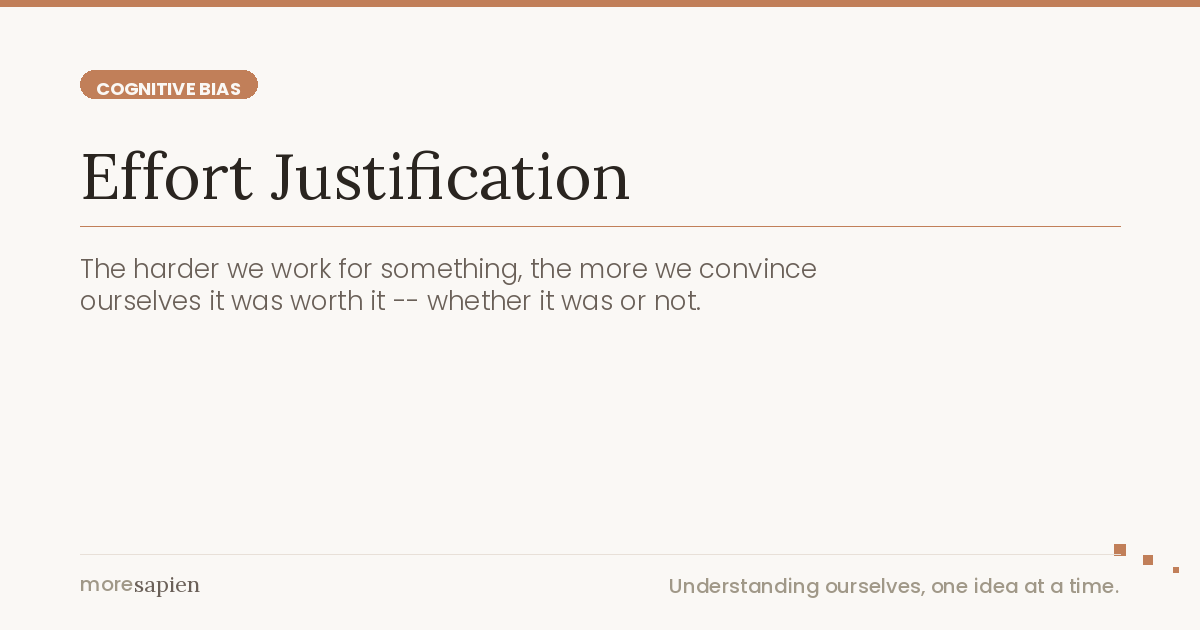
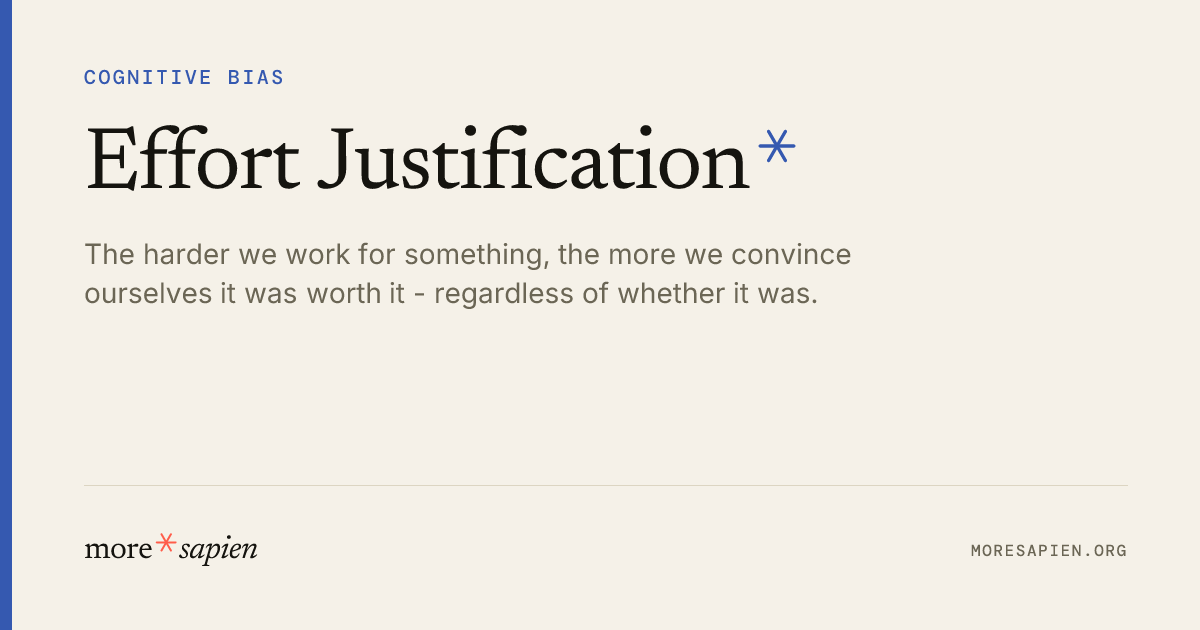
SEO fixes: effort justification entry, footer trailing slashes, sitemap lastmod

diff --git a/src/content/entries/effort-justification.md b/src/content/entries/effort-justification.md
@@ -1,0 +1,83 @@
+---
+title: "Effort Justification"
+oneLiner: "The harder we work for something, the more we convince ourselves it was worth it - regardless of whether it was."
+alsoKnownAs: ["effort justification effect", "effort justification paradigm", "justification of effort"]
+category: "Cognitive Bias"
+tags: ["decision-making", "self-deception", "psychology", "everyday life", "workplace", "critical thinking"]
+howToSpotIt: "When you catch yourself insisting that something was valuable primarily because it was difficult, pause. Would you rate it the same way if it had come easily? If the effort is the main evidence of its worth, effort justification is likely at work."
+thoughtToHoldOnto: "Difficulty is not the same as value. Some of the hardest things you've done weren't worth it - and some of the easiest were."
+whyItMattersNow: "In a culture that valorises hustle and hard work, effort justification quietly inflates the value of suffering itself. We stay in gruelling jobs, defend punishing training regimes, and resist shortcuts - not because the hard path is better, but because we need it to have been."
+relatedConcepts:
+  - slug: "cognitive-dissonance"
+    note: "Effort justification is one of the primary ways we resolve cognitive dissonance - if the experience was painful but we chose it, we inflate its value to make the choice feel rational."
+  - slug: "sunk-cost-fallacy"
+    note: "Sunk costs and effort justification reinforce each other - the more effort you've invested, the more you justify it, and the more justified it feels, the harder it is to walk away."
+  - slug: "rationalisation"
+    note: "Effort justification is a specific form of rationalisation - constructing a story about value that runs backwards from the effort rather than forwards from the outcome."
+  - slug: "motivated-reasoning"
+    note: "Motivated reasoning provides the intellectual scaffolding for effort justification - we selectively find evidence that the hard experience was worthwhile."
+  - slug: "moral-licensing"
+    note: "Having endured difficulty can feel like moral credit - licensing us to dismiss those who found an easier path."
+---
+
+## What effort justification means
+
+Effort justification is the tendency to assign greater value to outcomes that required significant effort to achieve, even when the effort had no bearing on the quality of the outcome. The harder something was to get, the more we convince ourselves it was worth getting - not because it was, but because the alternative is admitting we suffered for nothing.
+
+This is a specific expression of [cognitive dissonance](/cognitive-dissonance/). When we voluntarily endure something difficult - a gruelling initiation, a painful degree, an exhausting project - we're left with two competing thoughts: "that was genuinely awful" and "I chose to do it." Since we can't easily undo the choice, we resolve the tension by inflating the reward. The experience wasn't just tolerable, we tell ourselves - it was transformative. Character-building. Essential.
+
+The psychologist Leon Festinger first identified this mechanism in the 1950s as part of his broader theory of cognitive dissonance. His student Elliot Aronson and Judson Mills tested it directly in 1959 with a now-classic experiment: participants who underwent an embarrassing initiation to join a dull discussion group rated that group as significantly more interesting and valuable than those who joined without the initiation. The group was identical. The only difference was what people had endured to get in.
+
+## How effort justification works in psychology
+
+The psychological mechanism is straightforward, even if its effects are anything but. It operates through a simple sequence that repeats across nearly every domain of human experience.
+
+### The dissonance trigger
+
+It begins with voluntary effort. You choose to do something difficult - study for years, train through pain, endure a bad job, push through a challenging process. The choice is important: if someone forces you into difficulty, the dissonance is weaker because you can blame the external pressure. It's the voluntary nature of the suffering that creates the psychological tension.
+
+### The value inflation
+
+Once the effort is behind you, your brain faces a reckoning. If the outcome matches the effort, there's no problem. But if the outcome is mediocre, ambiguous, or worse than expected, dissonance kicks in. Rather than accept that you suffered for something underwhelming, your evaluation of the outcome shifts upward. The mediocre becomes good. The good becomes great. The painful becomes meaningful.
+
+### The narrative lock-in
+
+Over time, this inflated evaluation hardens into a genuine belief. You don't just tell others it was worth it - you believe it yourself. The [rationalisation](/rationalisation/) feels indistinguishable from honest assessment. This is what makes effort justification so difficult to spot from the inside: it doesn't feel like a bias. It feels like a considered judgement.
+
+## Effort justification in everyday life
+
+Once you understand the pattern, you start seeing it everywhere. It shapes how we evaluate everything from education to food to fitness.
+
+### Effort justification in education and careers
+
+University graduates who endured particularly difficult courses often rate those courses as the most valuable, regardless of how much they learned. Medical residents who survived brutal training schedules frequently defend those schedules for future trainees - not because the evidence supports them, but because admitting the suffering was unnecessary would undermine the story they've told themselves about their own resilience.
+
+In the workplace, effort justification explains why people who struggled hardest to get a promotion often become its fiercest defenders, even when the promotion process was arbitrary or unfair. The difficulty becomes proof of merit rather than evidence of a broken system.
+
+### Effort justification in consumer behaviour
+
+Flat-pack furniture you assembled yourself feels more valuable than identical furniture that arrived pre-built - a phenomenon researchers have called the "IKEA effect." Food you spent hours cooking tastes better than the same recipe from a restaurant. A hike to a mediocre viewpoint feels worth it because of the climb, not the view.
+
+These are relatively harmless expressions of effort justification. The trouble starts when the same mechanism operates on bigger decisions.
+
+### Effort justification and the sunk cost fallacy
+
+Effort justification and the [sunk cost fallacy](/sunk-cost-fallacy/) are closely related but distinct. The sunk cost fallacy keeps you investing in something because of what you've already put in. Effort justification makes you believe the investment was worth it after the fact. They feed each other in a cycle: the more effort you justify, the more reluctant you are to abandon the investment, and the more you invest, the more effort there is to justify.
+
+This is why people stay in bad relationships, persist with failing businesses, and complete degrees they lost interest in years ago. The effort required to leave would mean confronting the possibility that all the effort so far was wasted - and that's a conclusion the brain will work remarkably hard to avoid.
+
+### Effort justification in groups and institutions
+
+Some of the most powerful examples of effort justification play out in groups. Fraternities, military units, elite sports teams, and professional associations often use demanding initiations - hazing, boot camps, qualifying exams - that serve no practical purpose beyond creating shared suffering. The research consistently shows that the more severe the initiation, the more positively members evaluate the group afterwards.
+
+This isn't because harsh initiations build better organisations. It's because people who voluntarily endure difficulty need to believe it was for something. The group becomes more valuable in their minds precisely because of what they endured to join it. This mechanism helps explain why abusive organisational cultures can be so self-sustaining: the people inside them have the strongest psychological incentive to defend them.
+
+## Why effort justification matters for critical thinking
+
+Effort justification is worth understanding because it operates beneath conscious awareness and distorts our ability to make honest assessments. When we evaluate whether a course was worth taking, a job was worth enduring, or a relationship was worth saving, we're rarely working from clean data. The effort itself has already contaminated the evaluation.
+
+This connects to [motivated reasoning](/motivated-reasoning/) - the broader tendency to use our intelligence not to seek truth but to defend conclusions we've already reached. Effort justification provides both the motive (I need this to have been worth it) and the raw material (the difficulty itself becomes the evidence of value).
+
+The practical antidote isn't to dismiss effort or pretend difficulty doesn't matter. Some things are valuable precisely because they're hard. The question is whether you can honestly separate the two: was this valuable AND hard, or are you calling it valuable BECAUSE it was hard? That distinction is where effort justification hides.
+
+One useful test is to imagine a friend describing the same experience. If they'd endured what you endured and got the outcome you got, would you tell them it was worth it? Or would you quietly think they'd wasted their time? The gap between those two answers is a measure of how much effort justification is shaping your judgement.